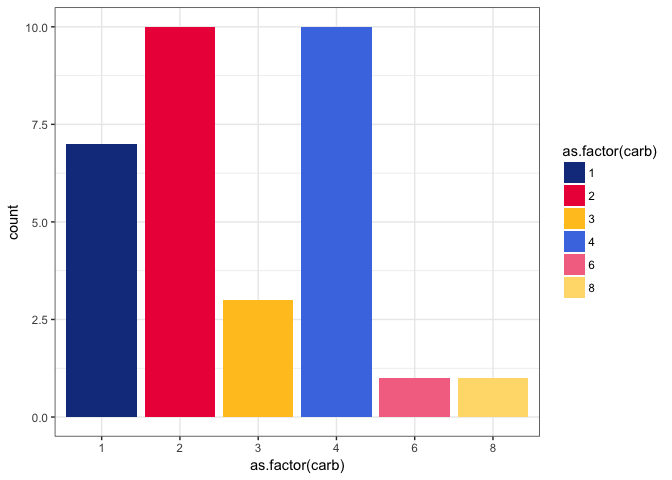
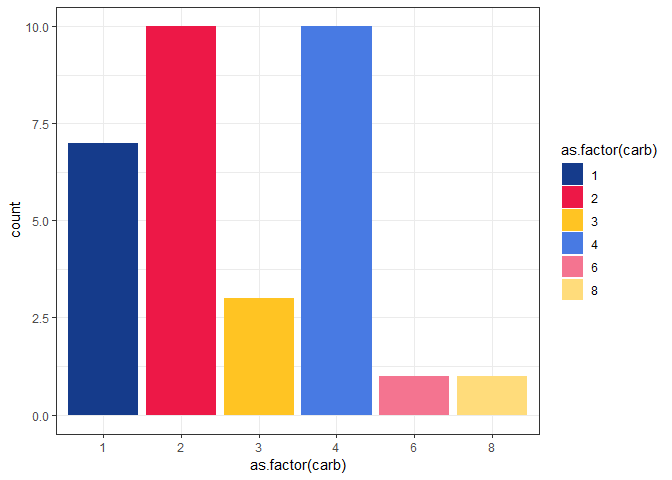
Updated styles

diff --git a/README.md b/README.md
@@ -34,6 +34,11 @@ Usage is through the functions `scale_fill_redbull` and `scale_colour_redbull` d
 
 ``` r
 library(ggplot2)
+```
+
+    ## Warning: package 'ggplot2' was built under R version 3.5.2
+
+``` r
 library(redbull)
 library(magrittr)
 
@@ -61,10 +66,15 @@ mtcars %>%
 You can use `discrete = FALSE` if you have continuous values. `reverse = TRUE` will flip the direction of the colours in the palette.
 
 ``` r
-mtcars %>% ggplot(aes(x = disp, y = wt, colour = hp)) + 
+mtcars %>% 
+  ggplot(aes(x = disp, y = wt, colour = hp)) + 
   geom_point(size = 4.5, colour = "black") +
   geom_point(size = 4) + 
-  scale_color_redbull("rbwarm", discrete = FALSE, reverse = TRUE)
+  scale_color_redbull("rbwarm", discrete = FALSE, reverse = TRUE) +
+  ggtitle("Relationship between engine weight and displacement",
+          "Colour shows engine horsepower") +
+  xlab("Engine displacement (cc)") +
+  ylab("Engine weight (?)")
 ```
 
 ![](README_files/figure-markdown_github/discrete%20and%20reverse-1.png)
